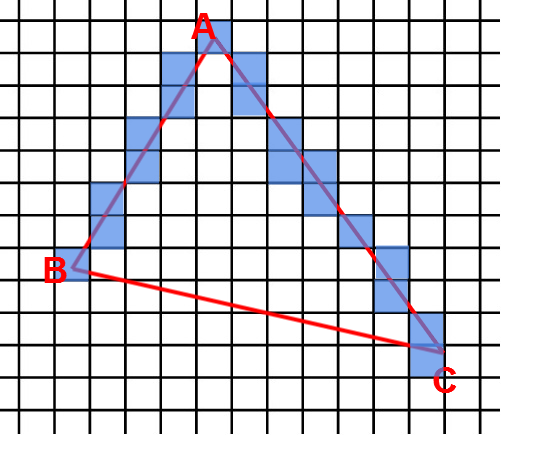
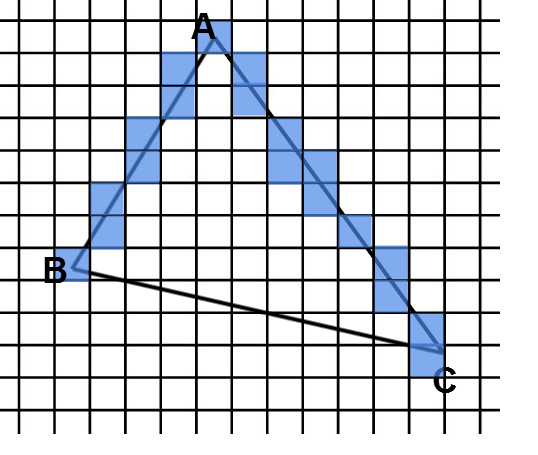
finished. Ver1

diff --git a/Thesis/introduction.tex b/Thesis/introduction.tex
@@ -1,80 +1,42 @@
 
-Introduction
-First and foremost, you should write about the most interesting or important parts of your project. Devote most space and time to this. For example:
+%Introduction
+%First and foremost, you should write about the most interesting or important parts of your project. Devote most space and time to this. For example:
 
  
 
-    What design choices did you have along the way, and why did you make the choices you made?
-    What was the most difficult part of the project?
-    Why was it difficult?
-    How did you overcome the difficulties?
-    Did you discover anything novel?
-    What did you learn?
+%    What design choices did you have along the way, and why did you make the choices you made?
+%    What was the most difficult part of the project?
+%    Why was it difficult?
+%    How did you overcome the difficulties?
+%    Did you discover anything novel?
+%    What did you learn?
 
 
-Set the scene and problem statement/specification. Provide the motivation for reading this report. Introduce the structure of report (what you will cover in which chapters). 
+%Set the scene and problem statement/specification. Provide the motivation for reading this report. Introduce the structure of report (what you will cover in which chapters). 
 
 
----
-The field of study, the research question, the hypothesis (if any) or, more generally, the research question that is to be investigated. It should also include a summary of the contents and main arguments in the dissertation.
----
+%How to write introduction: 
+% http://www.ldeo.columbia.edu/~martins/sen_sem/thesis_org.html
+\section{Introduction of the project}
 
+With the development of 3D construction techniques, the number of available 3D models on the Internet is increasing. This makes the challenges change from construction to retrieval. A basic approach to retrieve data is keyword-based retrieval. However, this simple approach often fails for 3D data. Therefore, content-based 3D retrieval engines are developed and have been used. 3D retrieval engines can be used in many domains such as entertainment, medicine, education, and industry field. These domains have a growing demand of 3D models, it is much efficient for them to find and reuse a 3D model rather than construct a model which may already exist. 
 
-\section{Design choices}
-1. Content-based 3D retrieval
+This project tries to help the company 3DI to implement a prototype of shape-based retrieval system, which provides a ``scan to search'' solution. The company 3DI wants to connect customers and suppliers of manufacturing components through a 3D retrieval system. The user can scan a object and reconstruct its 3D model, and this system takes the scanned point clouds of manufacturing components as queries, and search for 3D models with similar shape. This is similar to content-based similar image retrieval engine provided by Google. 
 
--sketch
+However, how to choose an appropriate method to describe the 3D data and retrieval become a question. Researchers have designed lots of algorithms to describe the 3D content. In these algorithms, descriptors are the data that can representing certain features of the model. By extracting one or multiple of these descriptors from two models, matching algorithm can be carried out and determine whether the two data are similar. For different purposes different types of 3D retrieval engines are developed. For example, the shape-based retrieval engines use a 3D data as query to find models with similar shapes. While the sketch-based 3D retrieval engines can help people who has no reference model but an idea, to draw sketches and search. Another retrieval engines may extract metadata from 3D models and used as a matching feature. The details of these matching algorithms are discussed in Chapter~\ref{background} Section~\ref{sec:3dretrieval} and Section~\ref{sec:retrievalalgorithms}. 
 
--shape
+For this project, it is important to choose an appropriate type of descriptors to describe the query model. Since the query model is reconstructed by scanning, it contains scanning noise, which may have influence to the matching algorithm in retrieval. Also, the scanned model cannot be guaranteed to align with the axises properly, i.e., the model may be rotated to any direction. Therefore, the descriptors should have rotation invariant property. After investigating the algorithms for describing and matching 3D models, a suitable descriptors is chosen for this project - the spherical harmonics shape descriptors~\cite{kazhdan2003rotation}. Comparing with other descriptors, the spherical harmonics descriptors are rotation invariant and insensitive to noise. Therefore, spherical harmonics descriptors are chosen in this ``scan to search'' retrieval system. Chapter~\ref{background} Section~\ref{sec:designchoice} shows the details of this design choice. Chapter~\ref{background} Section~\ref{computational_techniques} discusses the computational techniques of the spherical harmonics and its rotation invariant property. 
 
+With the chosen descriptors, the next step is to design the system. Before computing descriptors, a denoising module is implemented. Although the spherical harmonics are resistant to noise to some extent, the denoising module is used if the scanned model contains high level of noise. Then comes the pre-processing. Pre-processing steps includes rasterization and normalization. Afterwards, descriptors are able to compute. To overcome the protential inaccuracy of the results, the system will show six candidates model with high similarities to the input model. The detailed analysis and design are in Chapter~\ref{chp:analysis&design}. Chapter~\ref{chp:impl} provides the implementation details of the system. 
 
-2. shape-based 3D retrieval
+The system will not be complete without testing. Chapter~\ref{chp:analysis&design} also discusses how to carry out several tests in every stage of implementation. For example, rotation invariant test is to verify the correct implementation of the descriptors' computation. ``Scan to search'' test is to verify the system can work with real scanned models. An interesting discovery from the tests is that the spherical harmonics tend to have numerical errors in some circumstances (e.g. a model with unusual shape). Thus another simpler descriptors distance histogram are added for assistance and compensate these errors. The analysis details are in Chapter~\ref{chp:test&results} and Chapter~\ref{chp:conc}. The final results analysis and conclusion are also in Chapter~\ref{chp:test&results} and Chapter~\ref{chp:conc}. In summary, with single spherical harmonics the retrieval results sometimes have irrelevant matches. But with the assistance of a new descriptors, the ``scan to search'' 3D retrieval system works very well. 
 
--skeleton
+\section{Discussion of challenging parts}
 
--3D histogram
+During the implementation, there are some interesting (or challenging) parts worth discussing. The first part is try to make the pre-processing efficient. And the rasterization step can be explored. Rasterization is to sample the 3D model into a voxel grid. However, to rasterize, a $2R\times2R\times2R$ voxel grid is created, where $R$ is normally set as 32. So the size of the voxel grid is $2R\times2R\times2R = 262144$, which may occupy a huge memory space. So it is necessary to find a method, which can both save memory and compress the computational complexity. 
 
--medial axis
+The idea is to save each voxel information in bit, so that to use minimum memory space. One approach is to create a temporary bitmap (bitset or boolean array in C++) of length $2R\times2R\times2R$ to record whether a voxel is filled. Each element of this bitmap can only show 1 or 0 (true or false), so that the whole bitmap will not occupy any redundant space. While in one traversal($O(n)$) of surfaces of the model, the voxel grid will be filled and the grid vertices should be stored. The implementation details are in Chapter~\ref{chp:impl}. 
 
--lightfield
+The second challenging part is to understand and implement spherical harmonics decomposition. At first the transformation is implemented incorrectly, and the rotational invariance test does not pass, due to the wrong spherical harmonics decomposition. After reimplementing and testing, the final decomposition shows rotation invariant property and thus the spherical harmonics are correctly implemented.  Actually the spherical harmonics are like Fourier transform in 3D, whose coefficients show the feature of the decomposed function in space. And the energy ($L_{2}$-$norm$) of these coefficients can be used to represent the 3D shape information. Chapter~\ref{background} Section~\ref{computational_techniques} discusses these computational techniques.
 
--spherical harmonics
-
-
-3. Spherical harmonics
-
--rotational invariant
-
--noise resistant
-
-
-
-\section{Most difficult parts}
-
-1.efficient pre-processing
-
--memory use
-
--bitmap in rasterization
-
-
-2.understand and implement spherical harmonics
-
--Cartisian coordinates to polar coordinates and sort according to distance to center of mass
-
--spherical harmonics
-
--legendre polynomias
-
-
-\section{structure of report}
-
--background
-
--analysis and design
-
--implementation
-
--evaluation
-
-
+Besides, spherical harmonics decomposition is time-comsuming. However, due to the time limitation of this project, a fast spherical harmonics decomposition has not been investigated. This method is saved for the furture work of Chapter~\ref{chp:conc}.

diff --git a/Thesis/background.tex b/Thesis/background.tex
@@ -1,15 +1,20 @@
-\section{The area of 3D retrieval}
-With the development of 3D construction techniques, such as new multimedia softwares, interactive tools and 3D scanners, the number of available 3D models on the Internet is increasing. This development in 3D field makes the challenge change from construction to retrieval. Many domains such as entertainment, medicine, education, and industry field have a growing demand of 3D models, it is much efficient for them to find and reuse a 3D model rather than construct a model which may already exist. Therefore, many kinds of 3D retrieval engines are developed.
+\section{The area of 3D retrieval} \label{sec:3dretrieval}
 
-Different engines are applied different methods for retrieval. A basic approach to retrieve data is keyword-based retrieval. However, this simple approach often fails in some situation. For example, if a 3D model is named as ``1.stl'', both the system and the user can never know its content. Besides, even with keywords, it is difficult to describe a 3D data properly because of the ambiguity in language. Therefore, content-based 3D retrieval engines are developed and have been used. If the user has an original 3D model and want to find other similar 3D models, the shape-based retrieval system will be helpful~\cite{Funkhouser:2003:SEM:588272.588279}; but if the user has no data to describe what he/she wants to search, and just has an idea about what kind of model does he/she want, sketch-based 3D retrieval will be better~\cite{CGF:CGF12200}. 
+With the development of 3D construction techniques, such as new multimedia softwares, interactive tools, 3D scanners and 3D printers, the number of available 3D models on the Internet is increasing. Many domains such as entertainment, medicine, education, and industry field have a growing demand of 3D models, it is much efficient for them to find and reuse a 3D model rather than construct a model which may already exist. This development in 3D field makes the challenges change from construction to retrieval. A basic approach to retrieve data is keyword-based retrieval. However, this simple approach often fails for 3D data. For example, if a 3D model is named as ``1.stl'', both the system and the user can never know its content. Besides, even with keywords, it is difficult to describe a 3D data properly because of the ambiguity in language. 
 
-In the retrieval algorithm, certain feature representing the model is called as descriptor. By extracting one or multiple of these descriptors from two models, matching algorithm can be carried out and determine whether the two data are similar. With reference 3D models (or sketch data), there are many approaches to match them to the candidate models in the database. 
+Therefore, content-based 3D retrieval engines are developed and have been used. Different types of 3D retrieval engines are used in different situations. For example, if the user has an original 3D model and want to find other similar 3D models, the shape-based retrieval system will be helpful~\cite{Funkhouser:2003:SEM:588272.588279}; but if the user has no data to describe what he/she wants to search, and just has an idea about what kind of model does he/she want, sketch-based 3D retrieval will be better~\cite{CGF:CGF12200}. 
+
+\section{Retrieval algorithms} \label{sec:retrievalalgorithms}
+
+Lots of algorithms are developed to describe and match the feature of 3D data. In these algorithms, descriptors are the data that can representing certain features of the model. By extracting one or multiple of these descriptors from two models, matching algorithm can be carried out and determine whether the two data are similar. With reference 3D models (or sketch data), there are many approaches to match them with the candidate models in the database. 
 
 For sketch-based retrieval, Igarashi~\etal~\cite{Igarashi:2007:TSI:1281500.1281532} and Zeleznik~\etal~\cite{Zeleznik:2007:SIS:1281500.1281530} develop approaches on 3D sketch based retrieval; T. Funkhouser~\etal~\cite{Funkhouser:2003:SEM:588272.588279} provide a solution on 2D sketch based retrieval; Xie~\etal~\cite{CGF:CGF12200} provides a solution on retrieval about 2D projection of 3D model. For shape-based 3D retrieval, S. Belongie~\etal~\cite{belongie2001matching}~\cite{belongie2002shape} try to use 3D histogram as descriptors to measure the similarity between models with different shapes; Kazhdan~\etal~\cite{kazhdan2003rotation} use spherical harmonics to describe shapes and match models; Sundar~\etal~\cite{sundar2003skeleton} use skeleton-based descriptors to measure topological similarity between 3D models. 
 
 With certain retrieval method, the search engine can be built. Many universities and research institutions have developed their 3D retrieval engines, such as the 3D model search engine at the Princeton University~\cite{shilane2004princeton}~\cite{min2003early}, the 3D model retrieval system at the National Taiwan University~\cite{shen20033d}, and the Purdue University~\cite{iyer2005engineering}. Besides, database and benchmarks are required, for process the search engine as well as testing the search algorithm. The first benchmarks for 3D mesh models is created by Princeton University~\cite{shilane2004princeton}. There are 1, 814 models in the Princeton Shape Benchmark, where half of them are training data and the other half are testing data. In the 3D database of the Purdue University, there are 1,391 models~\cite{iyer2005engineering}.
 
-In manufacturing field, many common parts of components has already been designed, and their 3D models have been created. These models have many applications in industrial design and manufacturing. Thus there is no need for some manufactories to recreate these models again - reusing standard parts can lead to reduced production costs. Additionally, another situation is that, customers want to find a manufacturing supplier, who can provide certain types of components, they have to look through a list of all kinds of manufacturing components, and choose the right type as well as its suppliers. Or the customer have to be in a meeting with many suppliers, discussing which supplier can produce or provide the certain manufacturing components. It is time-consuming and inefficient, and the customer may miss some suppliers due to the limitation of geography or nationality. 
+\section{``Scan to search''} \label{sec:designchoice}
+
+In manufacturing field, many common parts of components has already been designed, and their 3D models have been created. These models have many applications in industrial design and manufacturing. Thus there is no need for some manufactories to recreate these models again - reusing standard parts can lead to reduced production costs. Also with the development of 3D printing techniques, a pre-processed 3D data can directly used for printing and batch producing. Additionally, another situation is that, customers want to find a manufacturing supplier, who can provide certain types of components, they have to look through a list of all kinds of manufacturing components, and choose the right type as well as its suppliers. Or the customer have to be in a meeting with many suppliers, discussing which supplier can produce or provide the certain manufacturing components. It is time-consuming and inefficient, and the customer may miss some suppliers due to the limitation of geography or nationality. 
 
 The company 3DI wants to connect customers and suppliers of manufacturing components through a 3D retrieval system. And this project tries to help 3DI to implement a prototype of shape-based retrieval system, which provides a ``scan to search'' solution. The issue that this system try to solve is, when there is no 3D model data of a component, sketch-based searching cannot provide instant accurate result, and the customer has already had real world sample components, the ``scan to search'' system can provide certain good matching result. The user can scan a object and reconstruct its 3D model, and this system takes the scanned point clouds of manufacturing components as queries, and search for 3D models with similar shape. This is similar to content-based similar image retrieval engine provided by Google. 
 

diff --git a/Thesis/implementation.tex b/Thesis/implementation.tex
@@ -4,7 +4,7 @@ Since this retrieval system is designed as a loosely coupled system, every basic
 
 Besides with the function to load 3D models of multiple formats, simulators for noise and rotation are the first important modules to implement. These simulators can help to verify the rotation invariant property of the descriptors, as well as robustness to random noise in the early stage.
 
-Gaussian noise is used for noise simulation. The default standard deviation for Gaussian noise in this module is 0.01. That is for one click on the button ``AddNoise'', the noise with 0.01 standard deviation will be generated and added for every vertex in the 3D model. This function is for simulating scanned noise, the noise intensity can be controlled by the times of click. 
+Gaussian noise is used for noise simulation. The default standard deviation for Gaussian noise in this module is 0.01. That is for one click on the button ``AddNoise'', the noise with 0.01 standard deviation will be generated and added for every vertex in the 3D model. This function is for simulating scanning noise, the noise intensity can be controlled by the times of click. 
 
 The other function is to rotate the input 3D model. Following Equation~\ref{rotationmatrix_x}, Equation~\ref{rotationmatrix_y} and Equation~\ref{rotationmatrix_z}, basic rotations are applied to the input 3D model to test rotational invariance property. These three basic rotations are controlled by three button ``Rotate\_X'', ``Rotate\_Y'' and ``Rotate\_Z'' respectively. 
 
@@ -52,7 +52,7 @@ W = \sum_{\bm{\mathrm{p}} \in N(\bm{\mathrm{u}})}W_c(\|\bm{\mathrm{p}}-\bm{\math
 $W_c$ is the spatial kernel for smoothing differences in distances, and it is a Gaussian function with parameter $\sigma_c$: $W_c=e^{-\frac{x^2}{2 \sigma_c^2}}$, where $\sigma_c$ depends on the average distance of the vertices. Its default value is 0.05. $W_s$ is the range kernel for smoothing differences in the projections of neighbours onto the vertex's normal. $W_s$ is also a Gaussian function with parameter $\sigma_s$: $W_s=e^{-\frac{x^2}{2 \sigma_s^2}}$, where $\sigma_s$ can be computed as the standard deviation of the projections of neighbours onto the vertex's normal. 
 
 The core part of the bilateral filter denoising function is demonstrated in the code below:
-%bilateral filter
+%CODE:bilateral filter
 \begin{lstlisting}[xleftmargin=1em]
 //sigma_c depends on the distance of the points
 double sigma_c = 0.05; 
@@ -93,7 +93,7 @@ Therefore a kd-tree is built to get several nearest neighbours. And some outlier
 
 To filter out the outliers, the maximum distance between the neighbours and the vertex is acquired. Then a threshold is set according to the maximum distance. If the distance of the neighbour vertex exceeds the threshold, this neighbour vertex will be rejected. The following code shows the implementation:
 
-%nearest neighbour
+%CODE:nearest neighbour
 \begin{lstlisting}[xleftmargin=1em]
 /*find nearest neighbour with kd-tree */
 	kdTree->annkSearch(		// search
@@ -131,22 +131,32 @@ To filter out the outliers, the maximum distance between the neighbours and the 
 Lastly, the bilateral filter of 3D mesh may cause mesh shrinkage. This can be overcame by the next module: normalization. 
 
 \section{Rasterization and Normalization}
-Rasterization and normalization is the pre-processing steps. Rasterization can filter out high frequency noise, and meanwhile keep the granularity of the 3D shape. Normalization can make sure the final matching algorithm will not be affected by the scale of the model. The influence of outliers will also be reduced. 
+
+Rasterization and normalization are the pre-processing steps. Rasterization is to sample the 3D model into voxel grids. It can filter out high frequency noise, and meanwhile keep the granularity of the 3D shape. Normalization can make sure the final matching algorithm will not be affected by the scale of the model. The influence of outliers will also be reduced. 
 
 To rasterize, a $2R\times2R\times2R$ voxel grid is created, where $R$ is normally set as 32 for keeping the granularity and filtering out noise. Ideally, a voxel will be assigned a value of 1 (or true) if this voxel touches the surface of the model. But, the data of the 3D model is normally stored in a point cloud. Therefore a improtant task for rasterization is to find a way to fill the surfaces of the model. 
 
 Face iterator can be used to get vertices for each surface. Since the vertices is in three dimension, it is still difficult to find which voxel is touched by the surface. However, to fill voxels between two vertices is easy. Therefore an idea is try to reduce the dimension, and fill voxels in two dimension. The solution is firstly devide the surface into triangles. With three vertices in one triangle, voxels on two edges can be filled. Then with the help of these voxels, voxels inside the triangle can also be filled. Figure~\ref{rasterization} illustrates the way to fill voxels on edges and then fill voxels in the triangle.
 
-\begin{figure}[h]
-\centering
-\includegraphics[width=0.4\linewidth]{rasterization_filledges}
-\includegraphics[width=0.4\linewidth]{rasterization_fillsurface}
-\caption{Fill voxels on edges AB and AC. Then with the help of voxels on edges AB and AC, voxels inside the triangle can also be filled} \label{rasterization}
+\begin{figure}
+\begin{center}
+\begin{tabular}{cc}   % The "|" bar puts a bar in the figure
+   \includegraphics[width=0.45\linewidth]{rasterization_fill2vertices} & 
+   \includegraphics[width=0.45\linewidth]{rasterization_filledges}  \\
+   (a) & (b)\\
+   \includegraphics[width=0.45\linewidth]{rasterization_fillsurface} &
+   \includegraphics[width=0.45\linewidth]{rasterization_fullfilled}  \\
+   (c) & (d)\\
+\end{tabular}
+\caption{Surface Rasterization: (a) and (b): Fill voxels on edges AB and AC. (c) and (d): With the help of voxels on edges AB and AC, fill voxels inside the triangle.} 
+  \label{rasterization}
+\end{center}
 \end{figure}
+
 
 To fill voxels between two vertices is not difficult. Firstly compute the normalized vector between these two vertices. Then start from one vertex and go along with the direction of the vector and fill voxels. The code is demonstrated as below:
 
-%rasterization between two vertices
+%CODE:rasterization between two vertices
 \begin{lstlisting}[xleftmargin=1em]
 /* fill voxels(grid) between two vertices */
 Vector v12 = point2-point1;
@@ -242,6 +252,7 @@ Since with all the coefficients $a_{lm}$, the spherical function $f(\theta,\varp
 
 The pseudocode for spherical harmonics descriptors:
 
+%PSEUDOCODE:spherical harmonics
 \begin{lstlisting}[xleftmargin=1em]
 /* spherical harmonics descriptors */
 
@@ -257,6 +268,7 @@ SH = sqrt(SH)
 
 The code for spherical harmonics descriptors:
 
+%CODE:spherical harmonics
 \begin{lstlisting}[xleftmargin=1em]
 /* spherical harmonics descriptors */
 

diff --git a/Thesis/analysis&design.tex b/Thesis/analysis&design.tex
@@ -2,13 +2,13 @@
 
 To implement the ``scan to search'' 3D retrieval system, the most important part is the computation of spherical harmonics. But before that,several pre-processing steps are required. 
 
-Firstly, the scanned noise should be reduced. Therefore before any other processing, the 3D model needs to be put into an appropriate denoising module. Secondly, normalization and rasterization of the model are essential. Normalization can make sure the final matching algorithm will not be affected by the scale of the model. Besides, the influence of outliers will also be reduced. Moreover, rasterization can filter out high frequency noise, and meanwhile keep the granularity of the 3D shape. 
+Firstly, the scanning noise should be reduced. Therefore before any other processing, the 3D model needs to be put into an appropriate denoising module. Secondly, normalization and rasterization of the model are essential. Normalization can make sure the final matching algorithm will not be affected by the scale of the model. Besides, the influence of outliers will also be reduced. Moreover, rasterization can filter out high frequency noise, and meanwhile keep the granularity of the 3D shape. 
 
 Afterwards, the main retrieval steps can be carried out. Spherical harmonics transformation and distance histogram are able to compute for the pre-processed model. At the first time to use this system, the descriptors' database should be initialized. Following these steps(normalization, rasterization and computation of descriptors), the descriptors' database is able to be generated. And the system is ready for retrieval. To overcome the protential inaccuracy of the results, the system will show six candidates model with high similarities to the input model.
 
 Apart from implementing the main retrieval steps, in the early stage, verification of the algorithms is vital. When the retrieval system is completed, some test cases are also important to evaluate the performance of the system. There are several steps to verify the system: 
 
-\begin{enumerate}[1)]
+\begin{enumerate}[1.]
 \item Input a model from the model database; try to find exact the same model
 \item Input a model from the model database; rotate the model and try to find the model with the same or similar shape
 \item Input a model from the model database; add noise/denoise and try to find the model with same/similar shape
@@ -18,7 +18,7 @@ Apart from implementing the main retrieval steps, in the early stage, verificati
 
 In the early stage, testing and verification of the algorithms are vital. While the retrieval system is completed, some test cases are also important to evaluate the performance of the system. There are several test cases: 
 
-\begin{enumerate}[1)]
+\begin{enumerate}[1.]
 \item Retrieval test
 \item Rotation invariant test
 \item Noise resistant test
@@ -34,7 +34,7 @@ The flowchart for the pre-processing is in Figure~\ref{scan2search_preprocessing
 
 \begin{figure}[h]
 \centering
-\includegraphics[width=0.5\linewidth]{scan2search_preprocessing}
+\includegraphics[width=0.8\linewidth]{scan2search_preprocessing}
 \caption{Pre-processing of the input model} \label{scan2search_preprocessing}
 \end{figure}
 
@@ -43,7 +43,7 @@ descriptors. Besides, since there are two descriptors (spherical harmonics and d
 
 \begin{figure}[h]
 \centering
-\includegraphics[width=0.4\linewidth]{scan2search_main}
+\includegraphics[width=1\linewidth]{scan2search_main}
 \caption{Retrieval process} \label{scan2search_main}
 \end{figure}
 

diff --git a/Thesis/abstract.tex b/Thesis/abstract.tex
@@ -1,5 +1,5 @@
-As the amount of 3D data is increasing on the Internet, many kinds of 3D retrieval engines are developed. Basic keyword-based retrieval techniques are not always effective, therefore content-based retrieval engines appear. This project focuses on developing a shape-based retrieval system, which provide a "scan to search" solution. The user can scan a object and reconstruct its 3D model with an app "123D", and use the scanned 3D point cloud as an input to retrieve models with similar shape. 
+As the amount of 3D data is increasing on the Internet, many kinds of 3D retrieval engines are developed. Basic keyword-based retrieval techniques are not always effective, therefore content-based retrieval engines appear. This project focuses on developing a shape-based retrieval system, which provide a "scan to search" solution for manufacturing components. The user can scan a object and reconstruct its 3D model with an app "123D", and use the scanned 3D point cloud to retrieve models with similar shape. 
 
-Firstly, the scanned data needs to be pre-processed. Scanned noise will be reduced via a 3D bilateral filter. Then the 3D data will be rasterized to a voxel grid and normalized to a certain scale. Thus high frequency noise is avoided while the shape information is mostly kept. Secondly, the shape information is described by applying a spherical harmonics decomposition of 3D data, as well as computing a distances distribution. These describtors are rotation invariant and noise insensitive. By computing the Euclidean distance between two descriptors, the similarity of two 3D models can be acquired, and thus the system can retrieve models with similar shapes. Also, this system provides six candidate models with high similarities, so that to avoid mis-matching. 
+Firstly, the scanned data needs to be pre-processed. Scanning noise will be reduced via a 3D bilateral filter. Then the 3D data will be rasterized to a voxel grid and normalized to a certain scale. Thus high frequency noise is avoided while the shape information is mostly kept. Secondly, the shape information is described by applying a spherical harmonics decomposition of 3D data, as well as computing a distances distribution. These describtors are rotation invariant and noise insensitive. By computing the Euclidean distance between two descriptors, the similarity of two 3D models can be acquired, and thus the system can retrieve models with similar shapes. Also, this system provides six candidate models with high similarities, so that to avoid mis-matching. 
 
-To verify and test the system, several test cases are carried out. Rotational invariance are first tested, to verify that the rotation invariant descriptors are computed correctly. Noise resistant test is then carried out. The last test is to input a scanned 3D model, and retrive similar models in the database. The results shows candidates with similar shapes. Thus this system is completed.
+To verify the system, a series of tests are carried out. Rotational invariance are first tested to verify that the rotation invariant descriptors are computed correctly. Noise resistant test is then carried out. The last test is to input a scanned 3D model, and retrive similar models in the database. The results are analysed. According to the results, some adjustments are made for more precise matching. 

diff --git a/Thesis/testandresults.tex b/Thesis/testandresults.tex
@@ -135,17 +135,18 @@ Some noise is generated by the noise generator and added to the model (Figure~\r
 
 \subsection{``Scan to search'' test}
 
-A scanned ``engine'' model is created and loaded. As the Figure~\ref{scantosearchtest_UI} (a) shows, the model is not aligned with the axises and has some scanned noise. After searching, the output is in Figure~\ref{scantosearchtest_UI} (b). Models that have similar shapes with the scanned ``engine'' model are found. Also the two types of shape descriptors are plotted in Figure~\ref{scantosearchtest_analysis}. 
+A scanned ``engine'' model is created in Figure~\ref{scantosearchtest_UI} (a). As the Figure~\ref{scantosearchtest_UI} (b) shows, the loaded model is not aligned with the axises and has some scanning noise. After searching, the output is in Figure~\ref{scantosearchtest_UI} (c). Models that have similar shapes with the scanned ``engine'' model are found. Also the two types of shape descriptors are plotted in Figure~\ref{scantosearchtest_analysis}. 
 
 \begin{figure}
 \begin{center}
 \begin{tabular}{cc}   % The "|" bar puts a bar in the figure
-   \includegraphics[width=0.6\linewidth]{input_scantosearch_test}  \\
-   (a) \\
+   \includegraphics[height=0.35\columnwidth]{input_scanned_scantosearch_test}& 
+   \includegraphics[height=0.35\columnwidth]{input_scantosearch_test}\\
+   (a) & (b)\\
 \end{tabular}
    \includegraphics[width=1\linewidth]{output_scantosearch_test}  \\
-   (b) \\
-\caption{``Scan to search'' test: (a) the input model (scanned model). (b) the query result. Models with similar shapes are found. } 
+   (c) \\
+\caption{``Scan to search'' test: (a) the scanned model. (b) the loaded model. (b) the query result. Models with similar shapes are found. } 
   \label{scantosearchtest_UI}
 \end{center}
 \end{figure}

diff --git a/Thesis/MyMScThesis.tex b/Thesis/MyMScThesis.tex
@@ -138,33 +138,18 @@ tabsize=4,
 \label{chp:conc}
 \input{conclusion.tex}
 
-\begin{figure}
-\begin{center}
-\begin{tabular}{c|cc}   % The "|" bar puts a bar in the figure
-   \includegraphics[width=.30\columnwidth]{home.png} &  % The little "and" puts splits in the table
-   \includegraphics[width=.30\columnwidth]{home.png} &  
-   \includegraphics[width=.30\columnwidth]{home.png}\\
-   (A) & (B) & (C)
-\end{tabular}
-\caption{Another figure caption. These should be meaningful and somewhat self-contained.} 
-  \label{fig:SomeMoreFigs}
-\end{center}
-\end{figure}
-
-Figures need not be in \texttt{.pdf} format. For example, Figure~\ref{fig:SomeMoreFigs} pulls in $3$ copies of a \texttt{.png} file. Also, notice that the automatic-placement of figures will try to put each figure as close as possible to the first reference in the final document, regardless of figure-placement in the .tex.
-
 
 
 \addcontentsline{toc}{chapter}{Appendices}
 
 \cleardoublepage
 \appendix
-\chapter{Theoretical Background}
-\label{chp:theory}
+%\chapter{Theoretical Background}
+%\label{chp:theory}
 %\input{theory.tex}
 
-\chapter{Lisp Primer}
-\label{cha:lisp-primer}
+%\chapter{Lisp Primer}
+%\label{cha:lisp-primer}
 %\input{lisp-primer.tex}
 
 

diff --git a/Thesis/acknowledgements.tex b/Thesis/acknowledgements.tex
@@ -1,3 +1,3 @@
 I would like to express my deep gratitude to Dr Seena and Dr Niloy, my project supervisors, for their patient guidance, enthusiastic encouragement and useful critiques of this project. 
 
-I would also like to extend my thanks to one of the technicians of Dr Seena's company for his technical support and his help in offering me data to test my program.
+I would also like to extend my thanks to the technicians of Dr Seena's company,Patrick Min and Emanuel Geromin, for their technical support and their help in offering me data to test my program.
